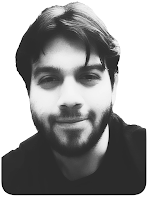
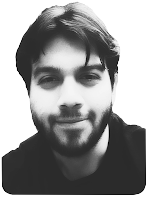
Add portrait halo, clean up the cut-out, and an easter egg

diff --git a/index.html b/index.html
@@ -42,7 +42,7 @@
       --text:#e8e8e8;--heading:#fafafa;
       --border:rgba(255,255,255,0.10);--border-light:rgba(255,255,255,0.18);
       --nav-bg:rgba(10,10,10,0.93);--hover-bg:rgba(255,255,255,0.03);
-      --link:#e8e8e8;--focus:#8ab4f8;
+      --link:#e8e8e8;--focus:#8ab4f8;--glow:rgba(255,255,255,0.07);
       --serif:'EB Garamond',Georgia,'Times New Roman',serif;
       --mono:'JetBrains Mono',ui-monospace,'Courier New',monospace;
       --t:0.18s ease;
@@ -53,7 +53,7 @@
       --text:#1a1a1a;--heading:#080808;
       --border:rgba(0,0,0,0.13);--border-light:rgba(0,0,0,0.22);
       --nav-bg:rgba(247,247,245,0.94);--hover-bg:rgba(0,0,0,0.035);
-      --link:#1a1a1a;--focus:#1a5fb4;
+      --link:#1a1a1a;--focus:#1a5fb4;--glow:rgba(0,0,0,0.06);
     }
     html{font-size:16px;-webkit-text-size-adjust:100%}
     body{background:var(--bg);color:var(--text);font-family:var(--serif);font-size:1.0625rem;line-height:1.6;-webkit-font-smoothing:antialiased}
@@ -101,7 +101,66 @@
     .tagline{font-size:clamp(1.05rem,2.2vw,1.25rem);color:var(--pale-gray);max-width:34ch;margin-bottom:1.1rem}
     .thesis{max-width:60ch;color:var(--text)}
     .portrait{align-self:start}
-    .portrait img{width:100%}
+    /* a fixed box, so whatever is inside keeps the same footprint */
+    .portrait-frame{position:relative;display:block;aspect-ratio:148/197;isolation:isolate}
+    .portrait-frame picture{display:contents}
+    .portrait-frame::before{
+      content:'';position:absolute;left:50%;top:48%;translate:-50% -50%;
+      width:140%;height:122%;z-index:0;pointer-events:none;
+      background:radial-gradient(closest-side,var(--glow),transparent 74%);
+      filter:blur(8px);
+    }
+    /* a blurred copy behind, so the halo follows the shape of whatever is shown */
+    .portrait-bloom{
+      position:absolute;inset:0;width:100%;height:100%;z-index:0;
+      object-fit:contain;pointer-events:none;
+      filter:blur(18px) saturate(0);opacity:.2;scale:1.18;
+    }
+    html.light .portrait-bloom{opacity:.13;filter:blur(20px) saturate(0) brightness(.8)}
+    .portrait-img{
+      position:absolute;inset:0;width:100%;height:100%;z-index:1;
+      object-fit:contain;transform-origin:18% 100%;will-change:transform;
+    }
+
+    /* easter egg */
+    .portrait-img{transform-origin:18% 100%}
+    /* each click tips it a little further, --wob grows 1..4 */
+    @keyframes portraitWobble{
+      0%  {transform:rotate(0deg)}
+      18% {transform:rotate(calc(var(--wob) * -1.7deg))}
+      38% {transform:rotate(calc(var(--wob) *  1.4deg))}
+      58% {transform:rotate(calc(var(--wob) * -0.9deg))}
+      78% {transform:rotate(calc(var(--wob) *  0.5deg))}
+      100%{transform:rotate(0deg)}
+    }
+    .portrait-img.wobble{animation:portraitWobble .55s cubic-bezier(.36,.07,.19,.97)}
+
+    /* the last click pushes it past balance and it goes over */
+    @keyframes portraitTopple{
+      0%  {transform:rotate(0deg);opacity:1;animation-timing-function:ease-in-out}
+      16% {transform:rotate(-9deg);animation-timing-function:ease-in-out}
+      34% {transform:rotate(6deg);animation-timing-function:ease-in-out}
+      50% {transform:rotate(-4deg);animation-timing-function:ease-in}
+      64% {transform:rotate(11deg) translate(1%,0);opacity:1;
+           animation-timing-function:cubic-bezier(.45,0,1,1)}
+      100%{transform:rotate(92deg) translate(34%,128%);opacity:0}
+    }
+    .portrait-img.topple{animation:portraitTopple 1.05s forwards}
+
+    /* and the replacement drops in and settles */
+    @keyframes eggDrop{
+      0%  {transform:translateY(-30px) rotate(-7deg) scale(.92);opacity:0;
+           animation-timing-function:cubic-bezier(.3,.8,.5,1)}
+      55% {transform:translateY(5px) rotate(2deg) scale(1.02);opacity:1;
+           animation-timing-function:ease-out}
+      75% {transform:translateY(-3px) rotate(-1deg) scale(1)}
+      90% {transform:translateY(1px) rotate(.4deg)}
+      100%{transform:translateY(0) rotate(0deg) scale(1);opacity:1}
+    }
+    .portrait-img.egg-in{animation:eggDrop .78s forwards}
+
+    .portrait.egg .portrait-frame::before{opacity:0}
+    .portrait.egg .portrait-img{transform-origin:50% 50%}
     .affil{margin-top:1.6rem;font-family:var(--mono);font-size:.7rem;line-height:1.9;letter-spacing:.04em;color:var(--light-gray)}
     .affil span{display:block}
 
@@ -249,12 +308,15 @@
         <span data-i18n="affil3">AI Engineering, ESCOM-IPN · Philosophy, FFyL-UNAM</span>
       </p>
     </div>
-    <div class="portrait">
-      <picture>
-        <source srcset="resources/selfie_lmao@2x.webp" type="image/webp">
-        <img src="resources/selfie_lmao.png" width="148" height="197"
-             alt="Portrait of Haniel Ulises, black and white, facing the camera" />
-      </picture>
+    <div class="portrait" id="portrait">
+      <span class="portrait-frame">
+        <img class="portrait-bloom" src="resources/selfie_lmao@2x.webp" alt="" aria-hidden="true" />
+        <picture>
+          <source srcset="resources/selfie_lmao@2x.webp" type="image/webp">
+          <img class="portrait-img" id="portraitImg" src="resources/selfie_lmao.png" width="148" height="197"
+               alt="Portrait of Haniel Ulises, black and white, facing the camera" />
+        </picture>
+      </span>
     </div>
   </div>
 </section>
@@ -1242,6 +1304,84 @@ function decorateProjects() {
 }
 
 decorateProjects();
+
+// ── portrait easter egg ──────────────────────────────────────────────────────
+// A few clicks make it teeter, the last one tips it over and something else
+// lands in its place. Click again to put it back.
+(function () {
+  const wrap  = document.getElementById('portrait');
+  const img   = document.getElementById('portraitImg');
+  if (!wrap || !img) return;
+
+  const source = wrap.querySelector('source');
+  const bloom  = wrap.querySelector('.portrait-bloom');
+
+  const ORIGINAL = {
+    src: img.getAttribute('src'),
+    srcset: source ? source.getAttribute('srcset') : null,
+    alt: img.getAttribute('alt'),
+    w: img.getAttribute('width'),
+    h: img.getAttribute('height')
+  };
+  const EGG = {
+    src: 'resources/listen-him.png',
+    alt: 'A grainy video still of a small dog, captioned "Listen to him"',
+    w: '498', h: '288'
+  };
+
+  const TRIGGER = 5;
+  const reduced = window.matchMedia('(prefers-reduced-motion: reduce)').matches;
+  let clicks = 0, busy = false, swapped = false, preloaded = false;
+
+  function play(cls, done) {
+    img.classList.remove('wobble', 'topple', 'egg-in');
+    void img.offsetWidth;                      // restart the animation
+    img.classList.add(cls);
+    img.addEventListener('animationend', function handler() {
+      img.removeEventListener('animationend', handler);
+      img.classList.remove(cls);
+      if (done) done();
+    }, { once: true });
+  }
+
+  function show(what, animate) {
+    if (source) {
+      if (what === EGG) source.removeAttribute('srcset');
+      else if (ORIGINAL.srcset) source.setAttribute('srcset', ORIGINAL.srcset);
+    }
+    img.src = what.src;
+    img.alt = what.alt;
+    img.width = what.w;
+    img.height = what.h;
+    if (bloom) bloom.src = what.src;
+    swapped = (what === EGG);
+    wrap.classList.toggle('egg', swapped);
+    if (animate && !reduced) play('egg-in');
+  }
+
+  wrap.addEventListener('click', () => {
+    if (busy) return;
+
+    if (!preloaded) { new Image().src = EGG.src; preloaded = true; }
+
+    clicks += 1;
+
+    // the first few clicks only make it teeter, harder each time
+    if (clicks < TRIGGER) {
+      if (reduced) return;
+      img.style.setProperty('--wob', String(clicks));
+      play('wobble');
+      return;
+    }
+
+    // the last one tips it over, and whatever was not showing lands instead
+    busy = true;
+    clicks = 0;
+    const next = swapped ? ORIGINAL : EGG;
+    const land = () => { show(next, true); busy = false; };
+    reduced ? land() : play('topple', land);
+  });
+})();
 
 // ── defaults are English and the dark theme; an explicit choice is remembered ─
 try {
